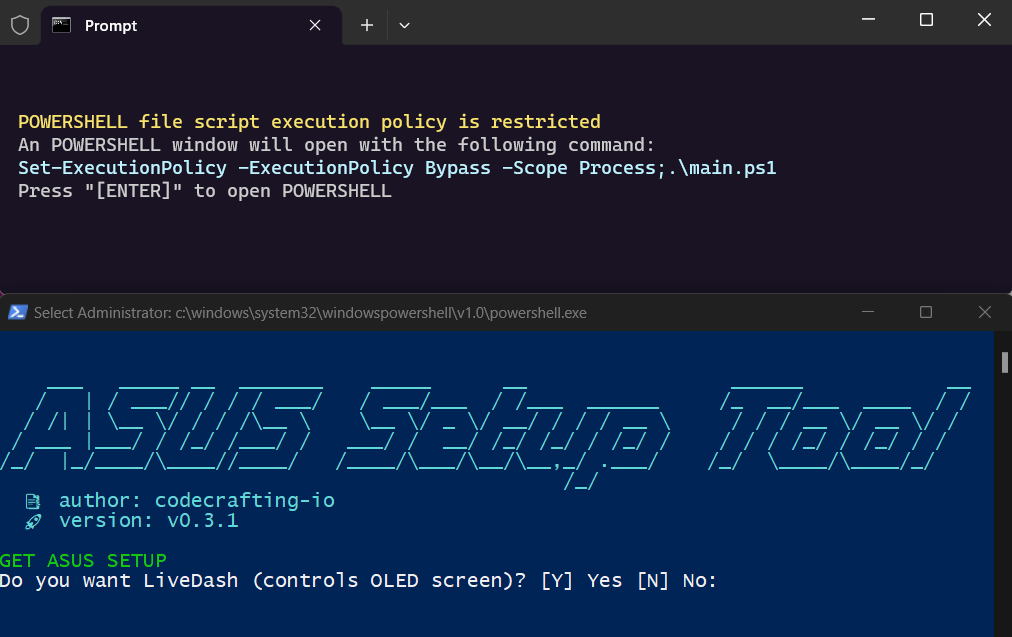
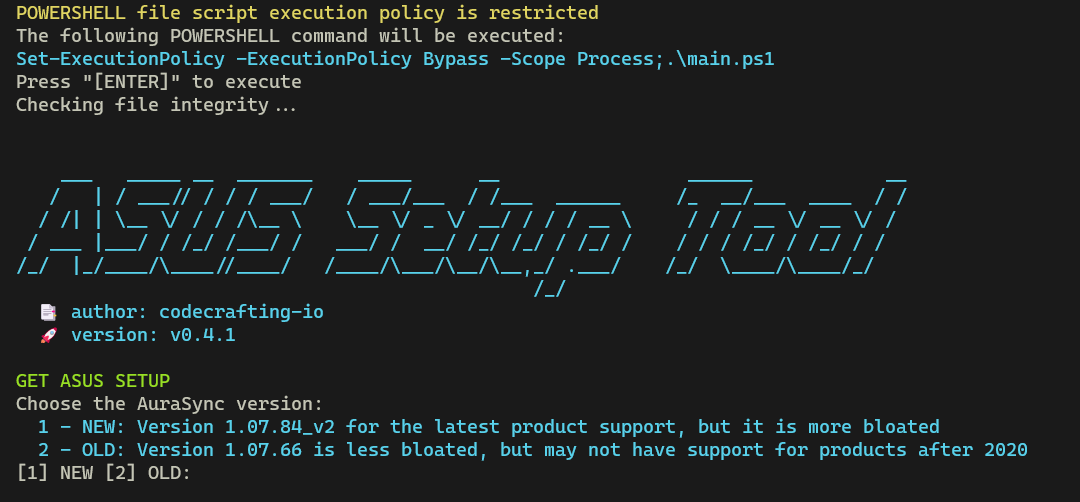
Revised setup installation workflow, added module selection output

diff --git a/README.md b/README.md
@@ -18,7 +18,7 @@ This is an PowerShell script tool that manages the setup installation for the le
 **NOTE: Before you proceed, note that this tool is experimental, still in early stages, provided as is and may not work or require manual tweaking.**
 
 - Create a System Restore point (recommended), [Instructions Here](https://support.microsoft.com/en-us/windows/create-a-system-restore-point-77e02e2a-3298-c869-9974-ef5658ea3be9#:~:text=In%20the%20search%20box%20on,and%20then%20select%20Create%20%3E%20OK.)
-- Download [ASUS Setup Tool here](/../../archive/refs/tags/v0.4.0.zip).
+- Download [ASUS Setup Tool here](/../../archive/refs/tags/v0.5.0.zip).
 - Extract the zip contents to a folder.
 - The [Windows core insolation](https://www.makeuseof.com/core-isolation-memory-integrity-windows/#:~:text=On%20the%20left%20side%20menu%20of%20the%20Windows%20Security%20app,the%20changes%20to%20take%20effect.) can interfere with the operation of ASUS Kernel drivers, so you may have to disable it.
 - If you have a third party antivirus, you **may have to add the setup to exclusions, disable or even uninstall it**, specially if it is a Kaspersky product. After this reboot the system and then proceed. You can re-enable/re-install the antivirus later.
@@ -28,14 +28,15 @@ This is an PowerShell script tool that manages the setup installation for the le
 
     ![ASUS Setup Tool first screen](/Source/Images/screen1.png?raw=true)
 
-- In case you see an "PowerShell file script policy execution is restricted", type `[ENTER]` to open an new POWERSHELL window with the execution policy set to `Bypass` for the process scope, still allowing to execute the setup, like in the screen below:
+- In case you see an "PowerShell file script policy execution is restricted", type `[ENTER]` to execute an POWERSHELL script to set to `Bypass` for the process scope, still allowing to execute the setup, like in the screen below:
 
     ![ASUS Setup Tool powershell execution policy](/Source/Images/screen2.png?raw=true)
 
-- Choose if you want to install LiveDash. **The installation of LiveDash requires patching LightingService, which may lead to incompatibility for products launched after 2020. This will also affect AuraSync installation.**
 - Choose which version of AuraSync you want, by typing `1` or `2`:
   - 1 - NEW: Version **1.07.84_v2** if you want the latest hardware support available, but this version has more bloated modules, which leads to more processes running on the system.
   - 2 - OLD: Version **1.07.66** has a less bloated module installation, but may not have support for products launched after 2020.
+
+- Choose if you want to install LiveDash. **The installation of LiveDash requires patching LightingService, which may lead to incompatibility for products launched after 2020. This will also affect AuraSync installation.**
 
     ![ASUS Setup Tool AuraSync version](/Source/Images/screen3.png?raw=true)
 
@@ -80,7 +81,7 @@ Some of known issues:
 
     ![ASUS Setup Tool LightingService uninstall](/Source/Images/screen8.png?raw=true)
 
-- Aura Sync failed to install: This usually happens due to failure of installation of `LightingService`. Reboot the system and run ASUS Setup Tool again.
+- LightingService failed to install: This usually happens due to failure of installation of `LightingService`. Reboot the system and run ASUS Setup Tool again or execute the steps above.
 - Waiting to service stop: Sometimes some services or running drivers don't have an easy stop during the uninstallation. Reboot the system and try again.
 - The InstallShield Engine could not be installed: This likely happens during the uninstallation of one of the Apps, as a result of setup interruption or failure to uninstall. Click ok and then proceed. This won't interfere on uninstallation.
 - The `GET ASUS SETUP` fails: This can happen if you interrupt the process and tried again later. Just run Asus Setup again.

diff --git a/CHANGELOG.md b/CHANGELOG.md
@@ -1,5 +1,13 @@
 # Changelog
 
+## v0.5.0
+
+- Changed installation process to allow installation of LiveDash only
+- Show AuraSync version question first
+- Added LiveDash warning before answering the question
+- Improved update of services dependencies
+- Show selected AuraSync modules
+
 ## v0.4.0
 
 - Improved removal of files
